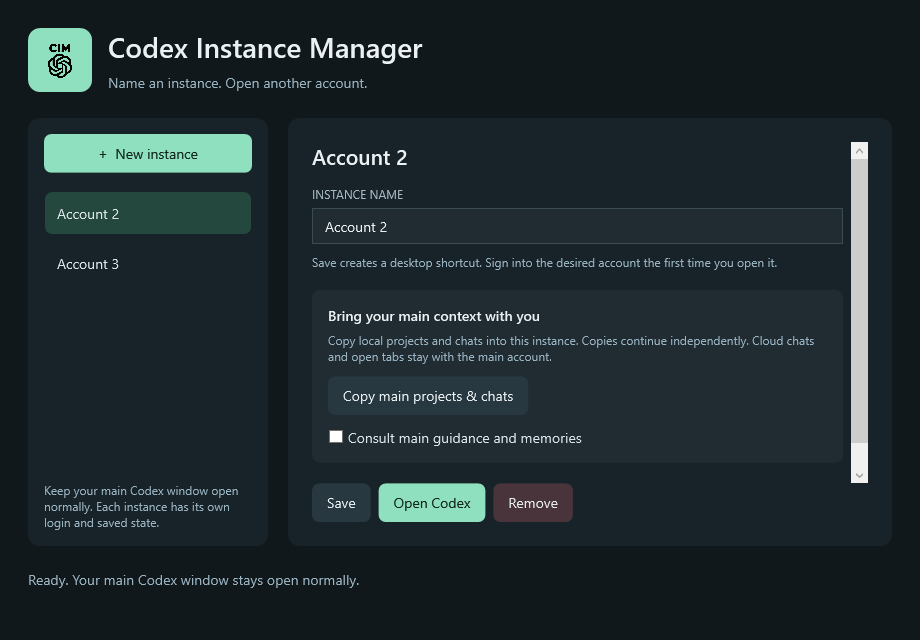
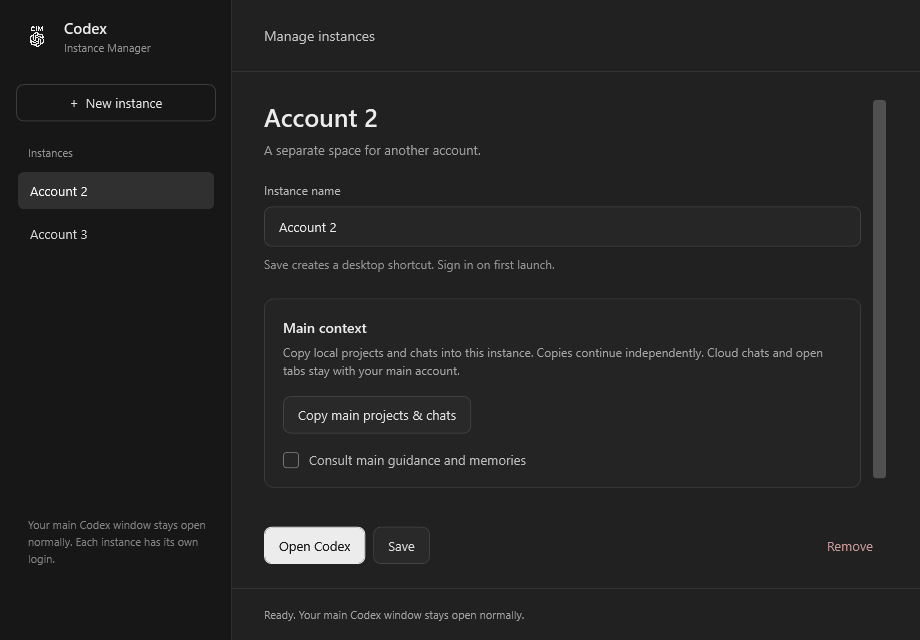
Restyle manager with Codex-inspired dark UI

diff --git a/docs/index.html b/docs/index.html
@@ -22,11 +22,11 @@
         <h1 id="hero-title">A workspace for<br><span>every Codex account.</span></h1>
         <p class="intro">Name an instance, create its shortcut, and open another Codex account. Bring your main local projects and chats with you when you want.</p>
         <div class="actions"><a class="button primary" href="https://github.com/artizandevs/codex-instance-manager/releases/latest/download/Codex-Instance-Manager.zip">Download for Windows</a><a class="button secondary" href="https://github.com/artizandevs/codex-instance-manager">Explore the source</a></div>
-        <p class="download-note">v0.2.0 · Experimental release · Free under MIT</p>
+        <p class="download-note">v0.2.1 · Experimental release · Free under MIT</p>
       </div>
       <aside class="release-card" aria-label="Release details"><img src="assets/logo-cim.png" width="84" height="84" alt="Codex Instance Manager logo"><p>Small launcher.<br>Separate profiles.</p><dl><div><dt>Runs on</dt><dd>Windows 11</dd></div><div><dt>Built with</dt><dd>PowerShell + WPF</dd></div><div><dt>Extra runtime</dt><dd>None</dd></div></dl></aside>
     </section>
-    <section class="product wrap" aria-label="Application preview"><div class="preview-label"><span>YOUR INSTANCE CONTROL PANEL</span><span>Actual app layout · Example accounts</span></div><img class="preview" src="assets/manager-preview.png" width="920" height="640" alt="The simplified Windows manager with named account instances, Open Codex, and optional Copy main projects and chats." fetchpriority="high"><p class="preview-caption">One shortcut for each account. Your main window stays open normally.</p></section>
+    <section class="product wrap" aria-label="Application preview"><div class="preview-label"><span>YOUR INSTANCE CONTROL PANEL</span><span>Actual app layout · Example accounts</span></div><img class="preview" src="assets/manager-preview.png" width="920" height="640" alt="The Codex-inspired dark manager with a charcoal sidebar, named account instances, and optional main project and chat copies." fetchpriority="high"><p class="preview-caption">One shortcut for each account. Your main window stays open normally.</p></section>
     <section class="features wrap" aria-labelledby="features-title">
       <div class="section-heading"><p class="eyebrow">KEEP THE CONTEXT. SEPARATE THE WORK.</p><h2 id="features-title">Give every worker its own space.</h2></div>
       <div class="feature-grid"><article><span class="feature-number">01</span><h3>Named account profiles</h3><p>Keep your default Codex window open normally. This manager lists and launches additional instances with their own logins, sessions, settings, and databases.</p></article><article><span class="feature-number">02</span><h3>Just name and open</h3><p>Give an instance a name and save it. Its desktop shortcut opens that account with its own saved state.</p></article><article><span class="feature-number">03</span><h3>Copy your local context</h3><p>Optionally bring the main window’s local projects and chat snapshots into an instance. Copies continue independently.</p></article></div>
@@ -41,7 +41,7 @@
       <details><summary>What does shared memory actually share?</summary><p>It tells a worker to consult the main instance's guidance and memory files. Relevant content may enter that worker's model context. This is an instruction rule, not a Windows access-control boundary. It does not combine chats or automatically merge new worker memories.</p></details>
       <details><summary>Does the launcher submit prompts or collect telemetry?</summary><p>It opens account windows and imports local snapshots without submitting prompts. This launcher includes no telemetry or cloud-sync service. Codex is a separate application with its own settings and behavior.</p></details>
     </section>
-    <section class="closing wrap"><div><h2>Make room for your next worker.</h2><p>Free to use, inspect, and improve.</p></div><a class="button primary" href="https://github.com/artizandevs/codex-instance-manager/releases/latest/download/Codex-Instance-Manager.zip">Download v0.2.0</a></section>
+    <section class="closing wrap"><div><h2>Make room for your next worker.</h2><p>Free to use, inspect, and improve.</p></div><a class="button primary" href="https://github.com/artizandevs/codex-instance-manager/releases/latest/download/Codex-Instance-Manager.zip">Download v0.2.1</a></section>
   </main>
   <footer class="wrap"><span>Made by <a href="https://github.com/artizandevs">artizandevs</a></span><div><a href="https://github.com/artizandevs/codex-instance-manager/blob/main/LICENSE">MIT license</a><a href="https://github.com/artizandevs/codex-instance-manager/issues">Report an issue</a><a href="https://github.com/artizandevs/codex-instance-manager/releases">Releases</a></div></footer>
 </body>

diff --git a/CHANGELOG.md b/CHANGELOG.md
@@ -1,5 +1,11 @@
 # Changelog
 
+## 0.2.1 — 2026-10-08
+
+- Restyle the manager with a Codex-inspired dark palette, charcoal sidebar, subtle borders, neutral selections, and a white primary action.
+- Add dark native window chrome, rounded text entry, custom checkbox states, and subdued scrollbars.
+- Refresh the public app preview; account launch and import behavior stays the same.
+
 ## 0.2.0 — 2026-10-08
 
 - Simplify the manager to named instances, desktop shortcuts, and opening Codex.
